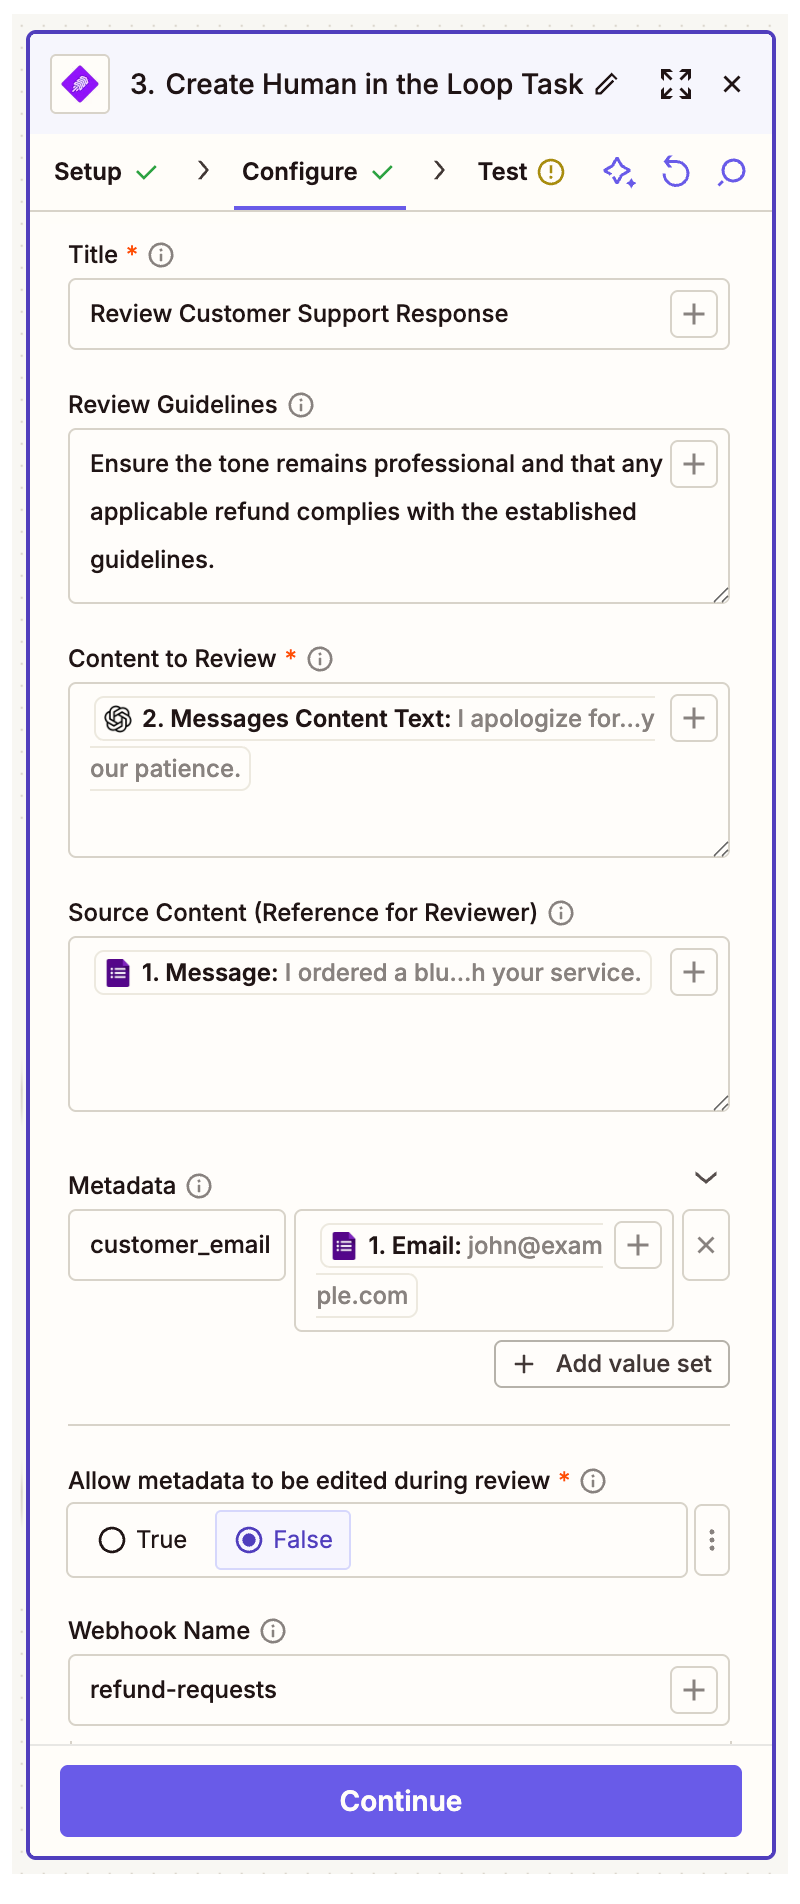
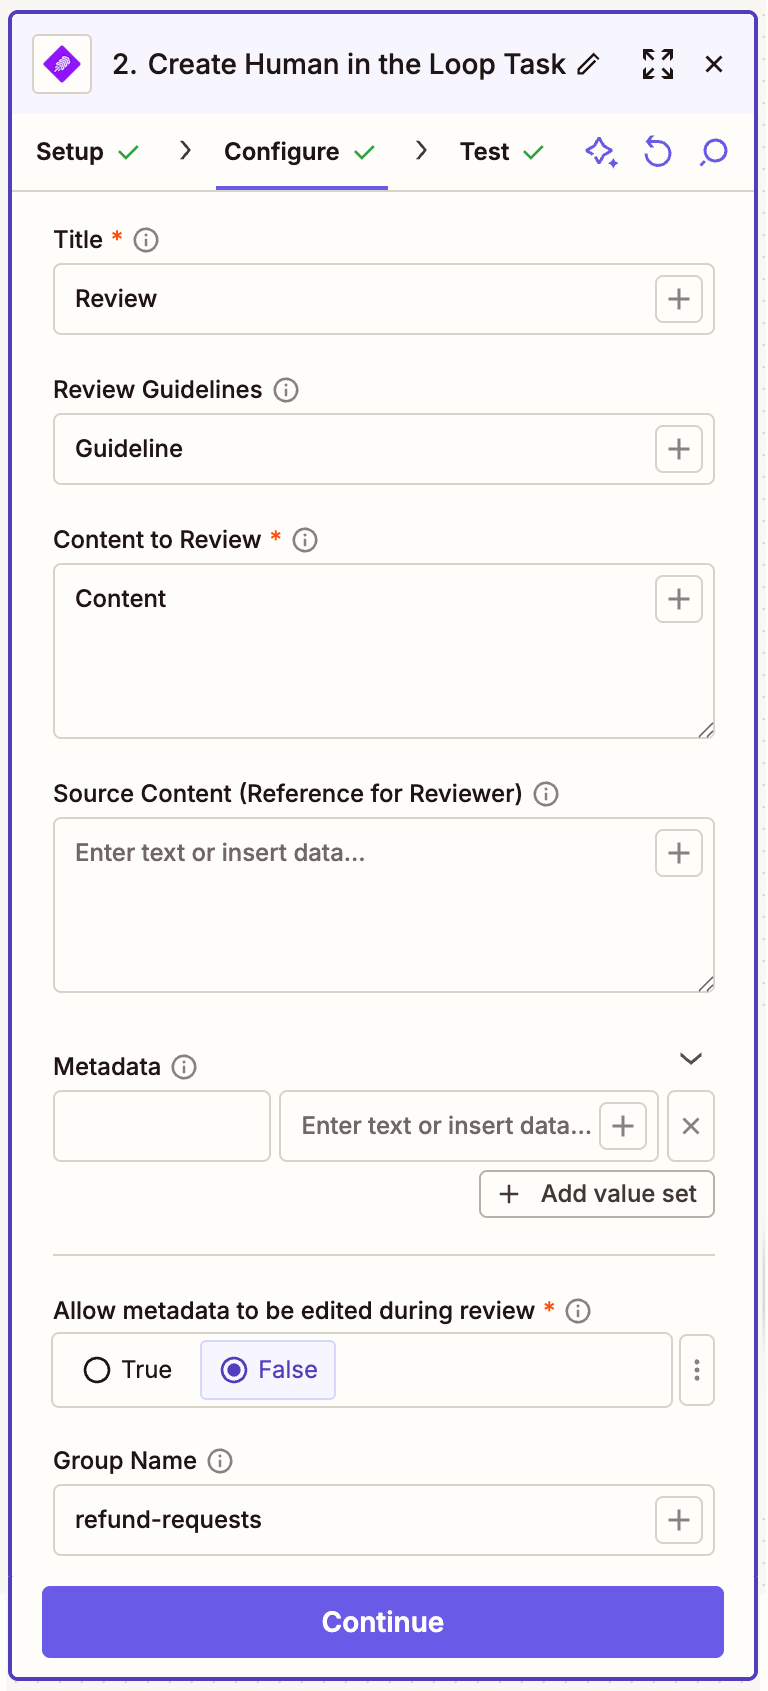
Update Human-in-the-Loop documentation: rename webhook to group name and update task configuration image
- Replace task configuration screenshot with updated version
- Rename "Webhook Name" field to "Group Name" throughout Zapier setup guide
- Update group name description to include batch processing capability
- Fix tone consistency by using second-person "you" instead of "users"
- Update index page to reflect batch support as available (not coming soon)

🤖 Generated with [Claude Code](https://claude.com/claude-code)

Changed region(s): [[0.0, 0.0, 1.0, 1.0]]

diff --git a/src/data/extensions/human-in-the-loop/index.md b/src/data/extensions/human-in-the-loop/index.md
@@ -38,7 +38,7 @@ Real-world scenarios where the extension is used:
 
 4. **AI assistant to quickly refine content** - Instead of manually editing, guide the inbuilt chat assistant to update the output content quickly.
 
-5. **Batch support (coming soon)** - Review a batch of pending human in the loop tasks at once.
+5. **Batch support** - Group pending tasks and review multiple items together in one session.
 
 ## Getting Started
 
